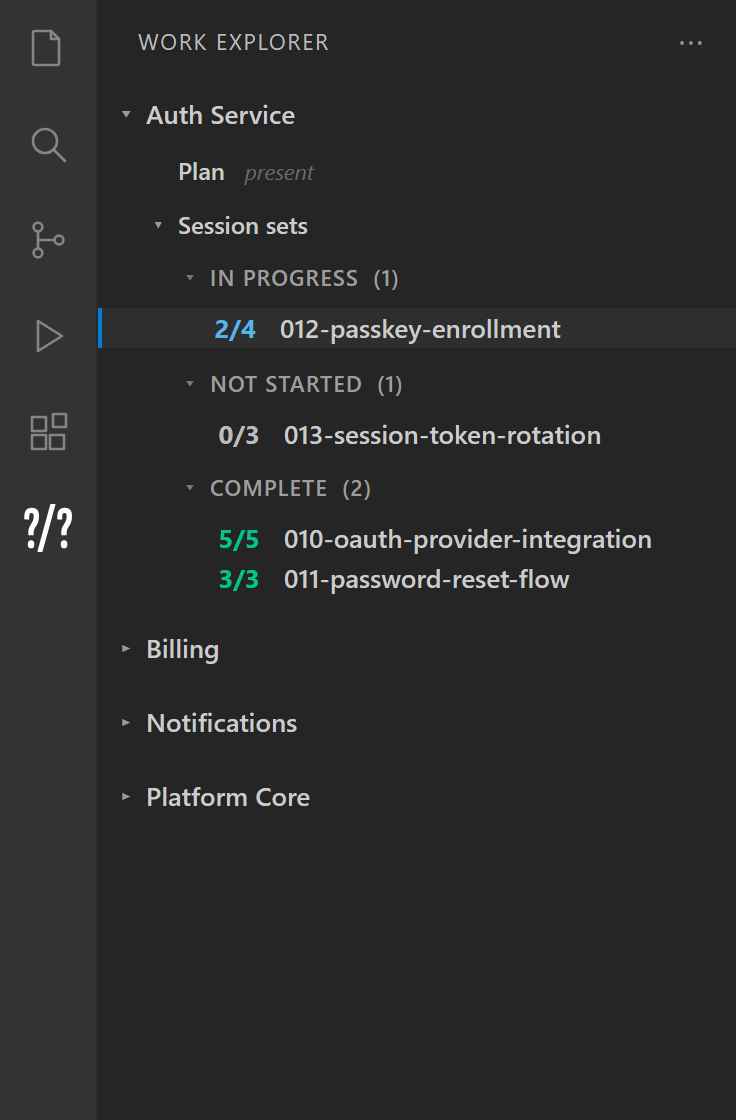
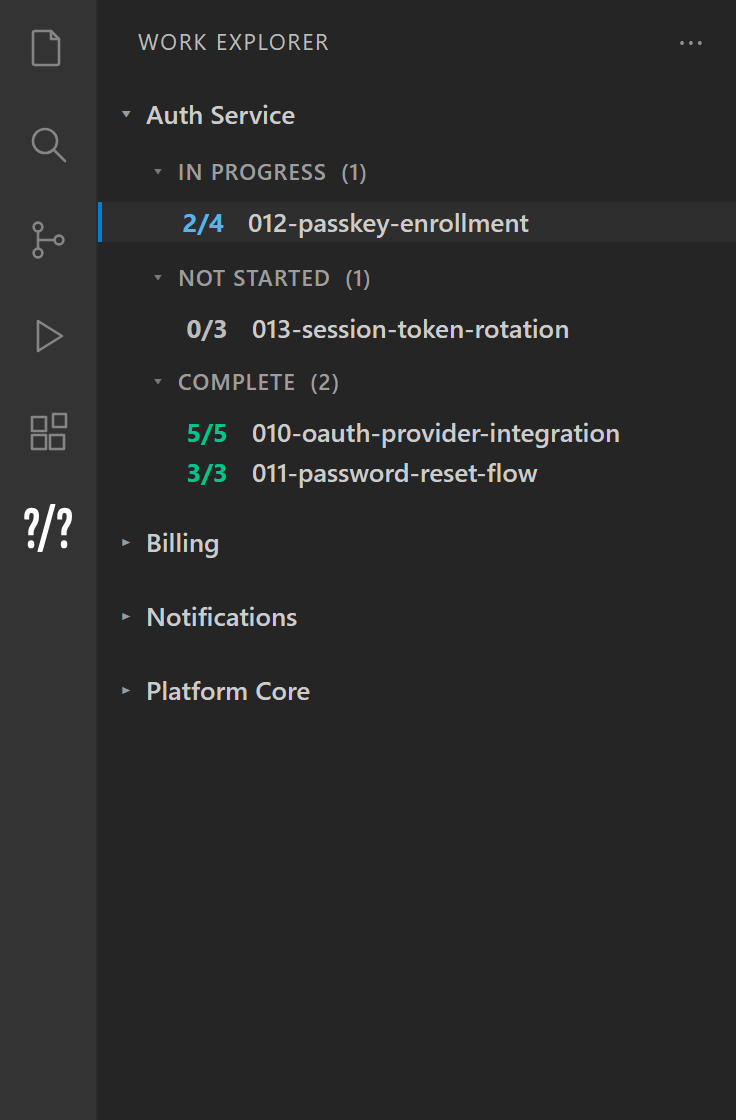
fix: marketplace mock — drop the Plan/Session sets level (operator-confirmed shipped shape: module -> status bucket -> row)

diff --git a/tools/dabbler-ai-orchestration/media/marketplace-work-explorer-mock.html b/tools/dabbler-ai-orchestration/media/marketplace-work-explorer-mock.html
@@ -1,8 +1,8 @@
 <!doctype html>
 <!--
   Marketplace screenshot mock — Work Explorer, module-first tree
-  (Sets 091–094 four-level dialect: module → Plan / Session sets →
-  status bucket → row).
+  (module → status bucket → row; the operator-confirmed shipped shape —
+  no intermediate Plan / Session sets level is drawn).
 
   Every visual value is transcribed from the REAL webview stylesheet
   media/session-sets-tree/tree.css and the REAL renderer
@@ -10,12 +10,10 @@
   substituted for the CSS variables:
 
     module-header    padding 7px 8px, 13px/600, chevron 12px, gap 4px
-    child-header     padding 5px 8px 5px 24px, 12px; label 500;
-                     state 11px italic opacity .7 margin-left 6px
-    bucket-header    padding 6px 12px 8px 12px (+padding-left 40px under
+    bucket-header    padding 6px 12px 8px 12px (+padding-left 24px under
                      a module), 11px/600 uppercase ls .05em opacity .72
     bucket label     "Label  (N)" — double space (client.js renderBucket)
-    row-header       padding 2px 12px (+padding-left 40px), 13px, lh 1.2
+    row-header       padding 2px 12px (+padding-left 24px), 13px, lh 1.2
     row-fraction     700, tabular-nums, width 3em, margin-right 12px,
                      format "N/M" (CustomSessionSetsView.fractionFor —
                      no spaces around the slash)
@@ -124,33 +122,11 @@
     font-size: 11px;
   }
 
-  /* ----- Level-2 children: Plan / Session sets (tree.css .child-*) ----- */
-  .module-child { margin-bottom: 1px; }
-  .child-header {
-    display: flex; align-items: center; gap: 4px;
-    padding: 5px 8px 5px 24px;
-    font-size: 12px;
-    user-select: none;
-  }
-  .child-chevron {
-    display: inline-block; width: 12px; text-align: center;
-    opacity: 0.7; flex-shrink: 0;
-    font-size: 10px;
-  }
-  .child-label { font-weight: 500; }
-  .child-state {
-    margin-left: 6px;
-    font-size: 11px;
-    opacity: 0.7;
-    font-style: italic;
-    color: #8a8a8a;
-  }
-
-  /* ----- Buckets (tree.css .bucket*) ----- */
+  /* ----- Buckets (tree.css .bucket*), directly under the module ----- */
   .bucket { margin-bottom: 4px; }
   .bucket-header {
     display: flex; align-items: center; gap: 4px;
-    padding: 6px 12px 8px 40px;
+    padding: 6px 12px 8px 24px;
     font-size: 11px; font-weight: 600;
     text-transform: uppercase;
     letter-spacing: 0.05em;
@@ -174,11 +150,11 @@
   }
   .row-header {
     display: flex; align-items: baseline;
-    padding: 2px 12px 2px 40px;
+    padding: 2px 12px 2px 24px;
     font-size: 13px; line-height: 1.2;
     user-select: none;
   }
-  .row.selected .row-header { padding-left: 38px; }
+  .row.selected .row-header { padding-left: 22px; }
   .row-fraction {
     flex: 0 0 auto;
     font-weight: 700;
@@ -259,68 +235,51 @@
           </div>
           <div class="module-body">
 
-            <div class="module-child">
-              <div class="child-header">
-                <span class="child-chevron"></span>
-                <span class="child-label">Plan</span>
-                <span class="child-state">present</span>
+            <div class="bucket">
+              <div class="bucket-header">
+                <span class="bucket-chevron">▾</span>
+                <span>In Progress&nbsp;&nbsp;(1)</span>
+              </div>
+              <div class="row selected">
+                <div class="row-header">
+                  <span class="row-fraction row-fraction-in-progress">2/4</span>
+                  <span class="row-text"><span class="row-name">012-passkey-enrollment</span></span>
+                </div>
               </div>
             </div>
 
-            <div class="module-child">
-              <div class="child-header">
-                <span class="child-chevron">▾</span>
-                <span class="child-label">Session sets</span>
+            <div class="bucket">
+              <div class="bucket-header">
+                <span class="bucket-chevron">▾</span>
+                <span>Not Started&nbsp;&nbsp;(1)</span>
               </div>
-              <div class="child-body">
-
-                <div class="bucket">
-                  <div class="bucket-header">
-                    <span class="bucket-chevron">▾</span>
-                    <span>In Progress&nbsp;&nbsp;(1)</span>
-                  </div>
-                  <div class="row selected">
-                    <div class="row-header">
-                      <span class="row-fraction row-fraction-in-progress">2/4</span>
-                      <span class="row-text"><span class="row-name">012-passkey-enrollment</span></span>
-                    </div>
-                  </div>
+              <div class="row">
+                <div class="row-header">
+                  <span class="row-fraction row-fraction-not-started">0/3</span>
+                  <span class="row-text"><span class="row-name">013-session-token-rotation</span></span>
                 </div>
-
-                <div class="bucket">
-                  <div class="bucket-header">
-                    <span class="bucket-chevron">▾</span>
-                    <span>Not Started&nbsp;&nbsp;(1)</span>
-                  </div>
-                  <div class="row">
-                    <div class="row-header">
-                      <span class="row-fraction row-fraction-not-started">0/3</span>
-                      <span class="row-text"><span class="row-name">013-session-token-rotation</span></span>
-                    </div>
-                  </div>
-                </div>
-
-                <div class="bucket">
-                  <div class="bucket-header">
-                    <span class="bucket-chevron">▾</span>
-                    <span>Complete&nbsp;&nbsp;(2)</span>
-                  </div>
-                  <div class="row">
-                    <div class="row-header">
-                      <span class="row-fraction row-fraction-complete">5/5</span>
-                      <span class="row-text"><span class="row-name">010-oauth-provider-integration</span></span>
-                    </div>
-                  </div>
-                  <div class="row">
-                    <div class="row-header">
-                      <span class="row-fraction row-fraction-complete">3/3</span>
-                      <span class="row-text"><span class="row-name">011-password-reset-flow</span></span>
-                    </div>
-                  </div>
-                </div>
-
               </div>
             </div>
+
+            <div class="bucket">
+              <div class="bucket-header">
+                <span class="bucket-chevron">▾</span>
+                <span>Complete&nbsp;&nbsp;(2)</span>
+              </div>
+              <div class="row">
+                <div class="row-header">
+                  <span class="row-fraction row-fraction-complete">5/5</span>
+                  <span class="row-text"><span class="row-name">010-oauth-provider-integration</span></span>
+                </div>
+              </div>
+              <div class="row">
+                <div class="row-header">
+                  <span class="row-fraction row-fraction-complete">3/3</span>
+                  <span class="row-text"><span class="row-name">011-password-reset-flow</span></span>
+                </div>
+              </div>
+            </div>
+
           </div>
         </div>
 